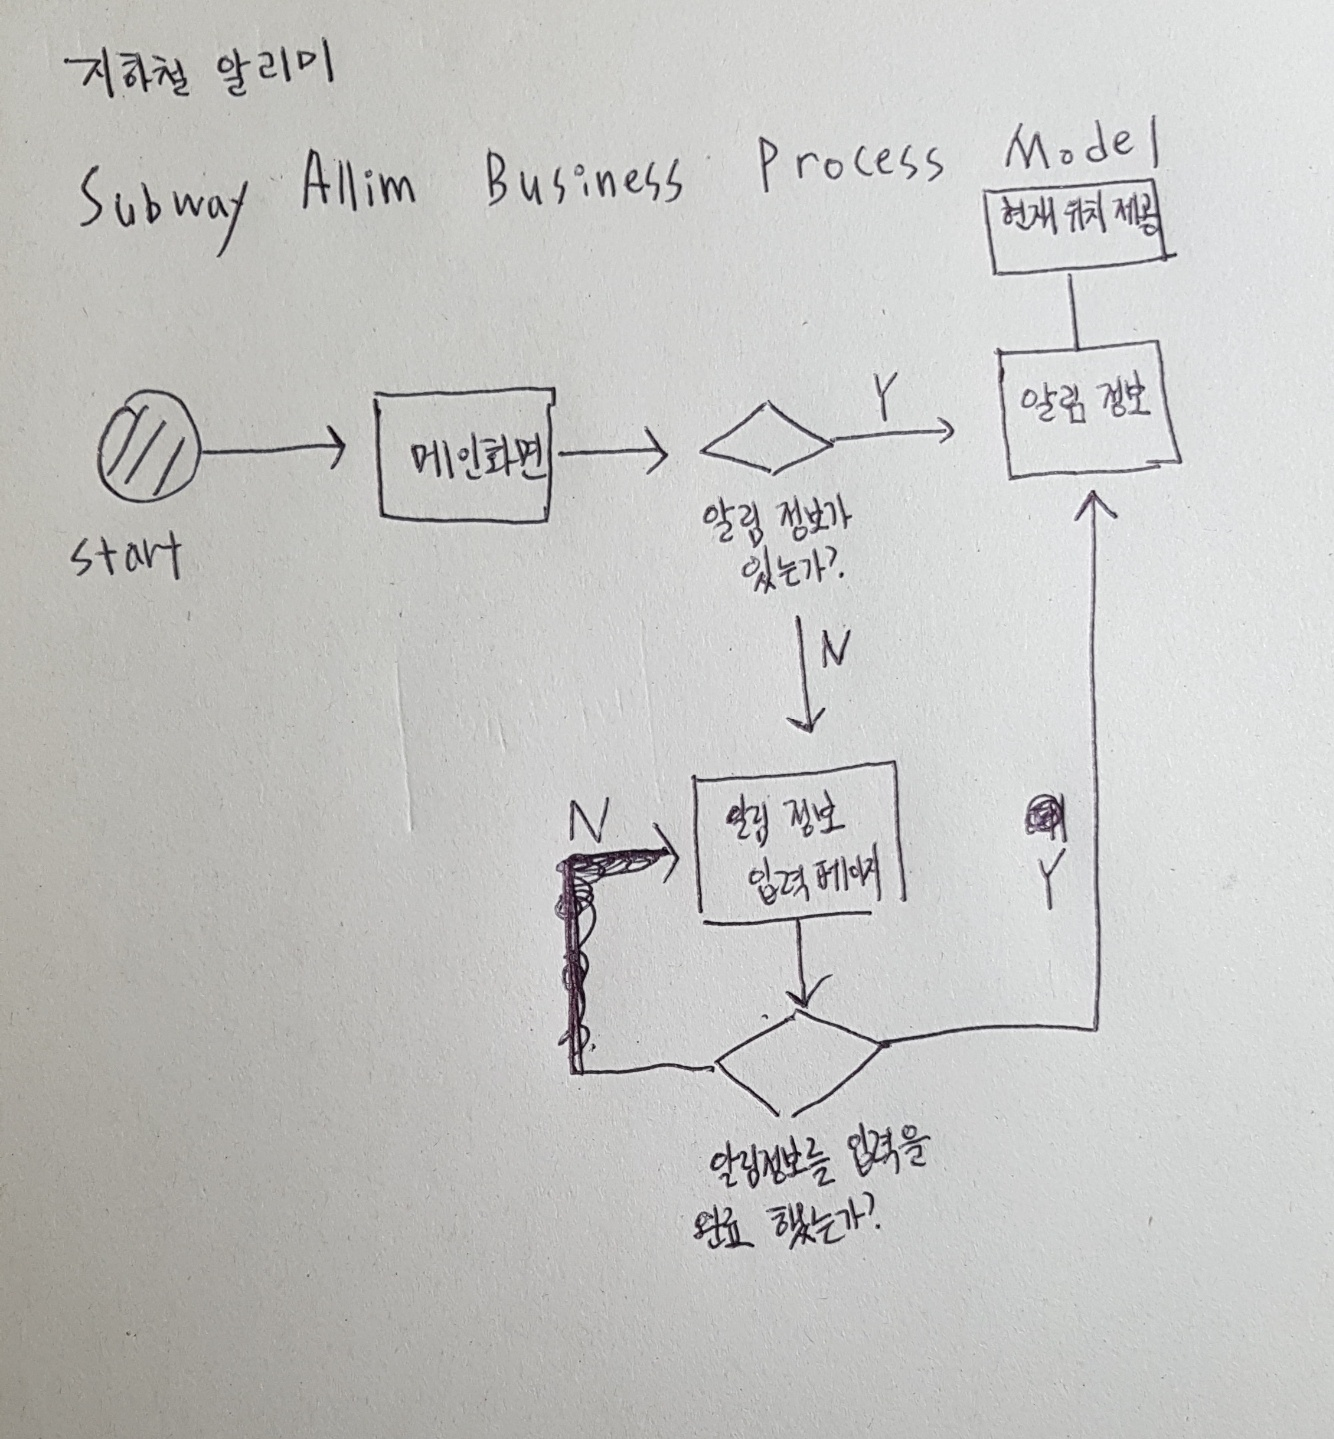
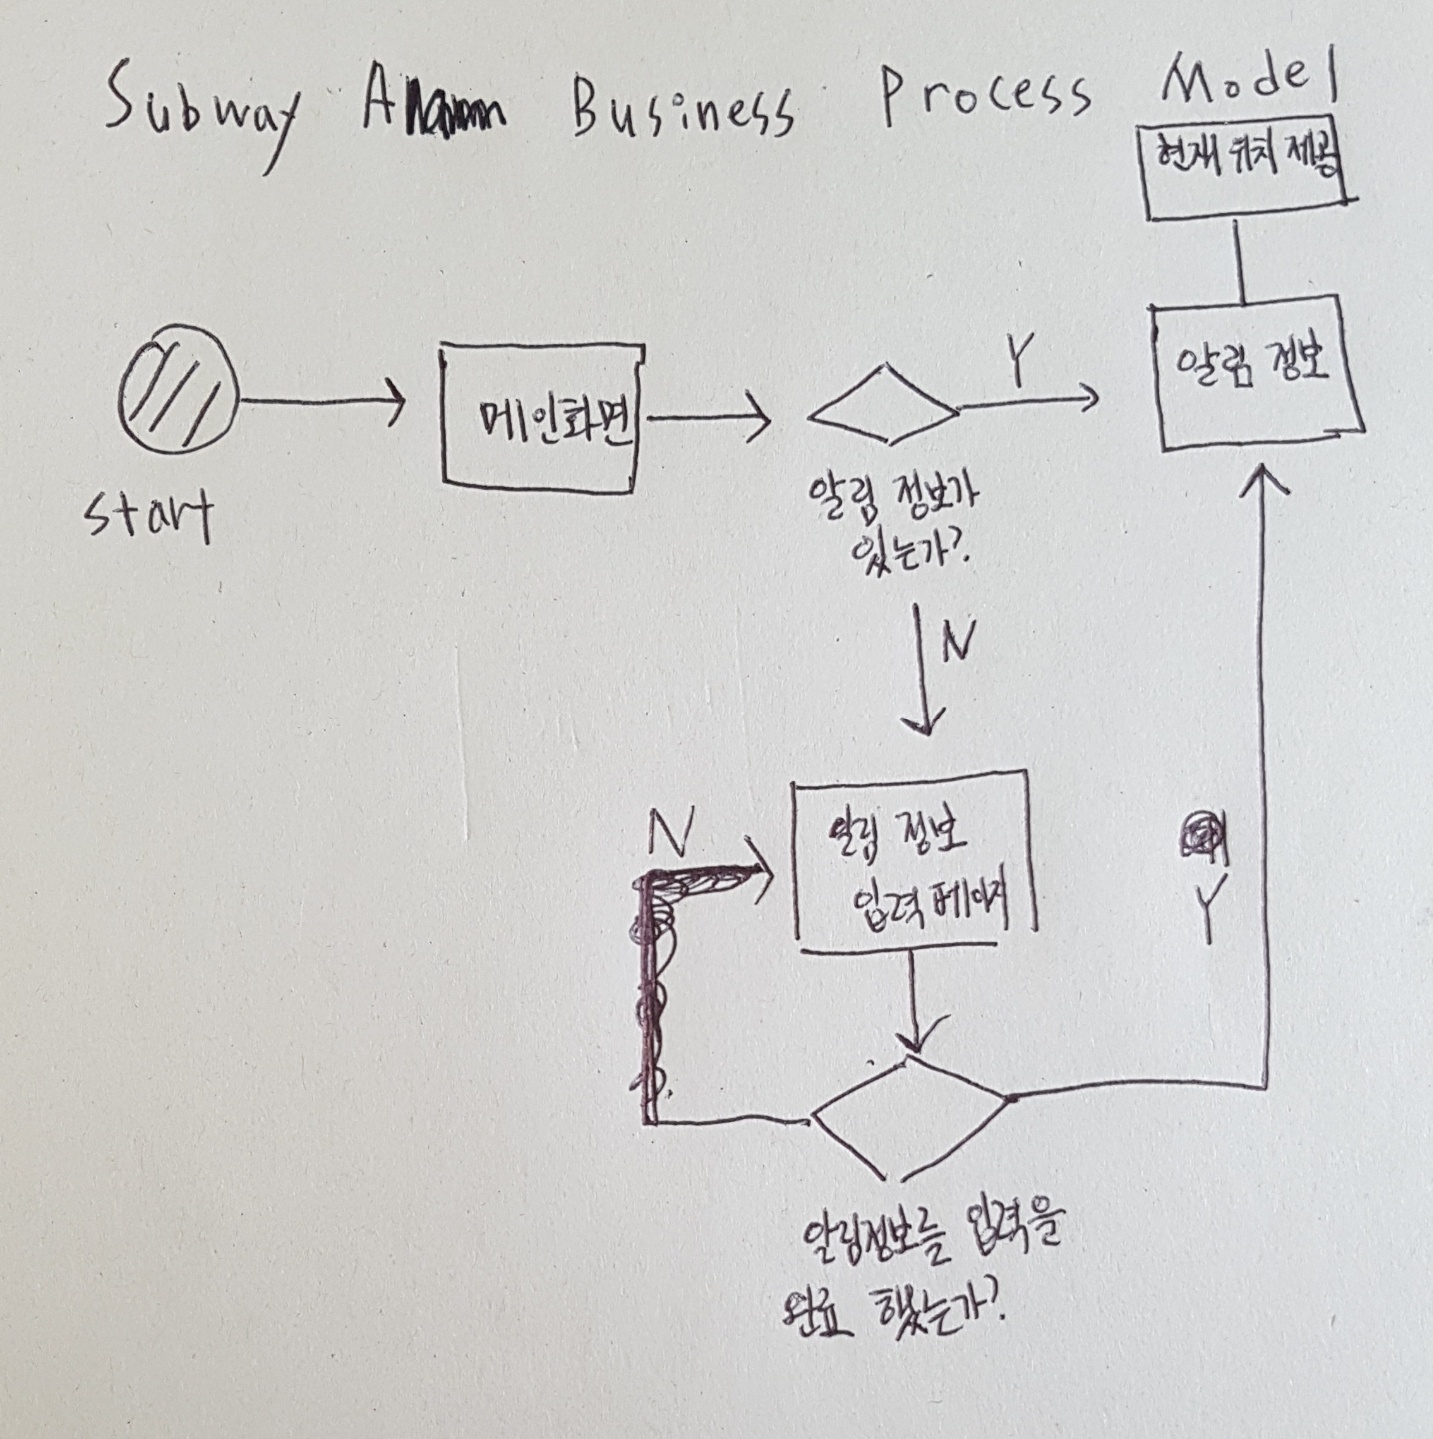
post commit

diff --git a/_posts/2019-03-07-dni-service.md b/_posts/2019-03-07-dni-service.md
@@ -14,10 +14,10 @@ comments: true
 누구나 한번쯤은 딴짓을 하다가 허억!하면서 두리번하지 않았을까?
 
 ![Alt text](/assets/images/post-img-190308-1.jpg "프로필 사진") <br />
-그래서 구상해봤던 SubwayAllim Business Process Model의 일부.
+그래서 구상해봤던 SubwayAlarm Business Process Model의 일부.
 
 ![Alt text](/assets/images/post-img-190308-2.jpg "프로필 사진") <br />
-AllimReg Page
+AlarmReg Page
 여기에서 여러가지 고민을 하게 되었다
 1-1. 지하철 안에서 입력하는중 다음역으로 지나가버린다면?
 - 출발역 클릭한 지점에서 Go누르기 까지 걸린 시간으로
@@ -56,7 +56,7 @@ if(시간이 넘는다면)
 
 
 ![Alt text](/assets/images/post-img-190308-3.jpg "프로필 사진") <br />
-AllimgViewPage
+AlarmViewPage
 1. 설정한 시간 단위로 도착 예정 시간을 보여준다!
 
 도착 예정 시간이 5분 남았을때
@@ -74,8 +74,7 @@ if(timeRemaining <=5)
 3. 만약 위치 안내 시간 단위가 적용한다면?
 -> 현재 위치로 주변을 알 수 있는가?(조사)
 
-![Alt text](/assets/images/post-img-190308-4.jpg "프로필 사진") <br />
-AllimPush
+AlarmPush
 
 도착하면 푸쉬를 띄워주자!
 지금 역을 확인해보라는 문구로!
